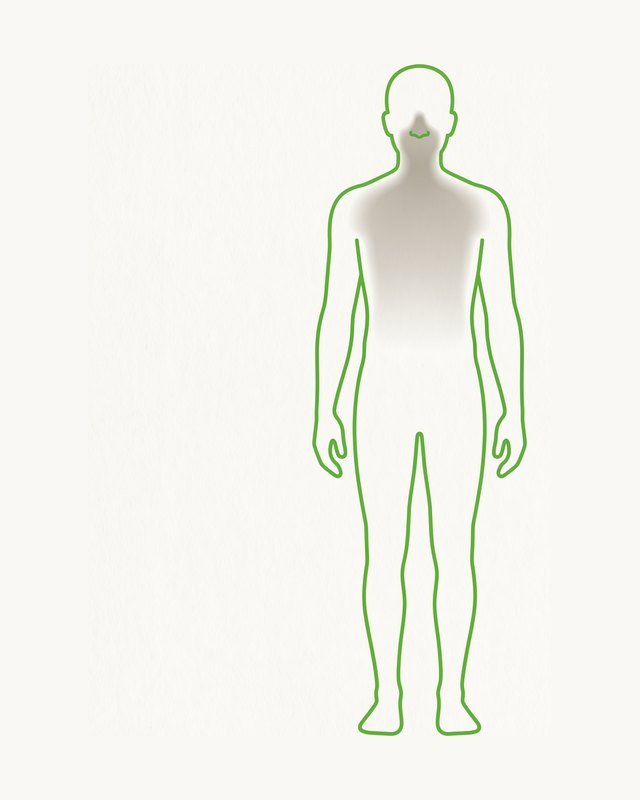
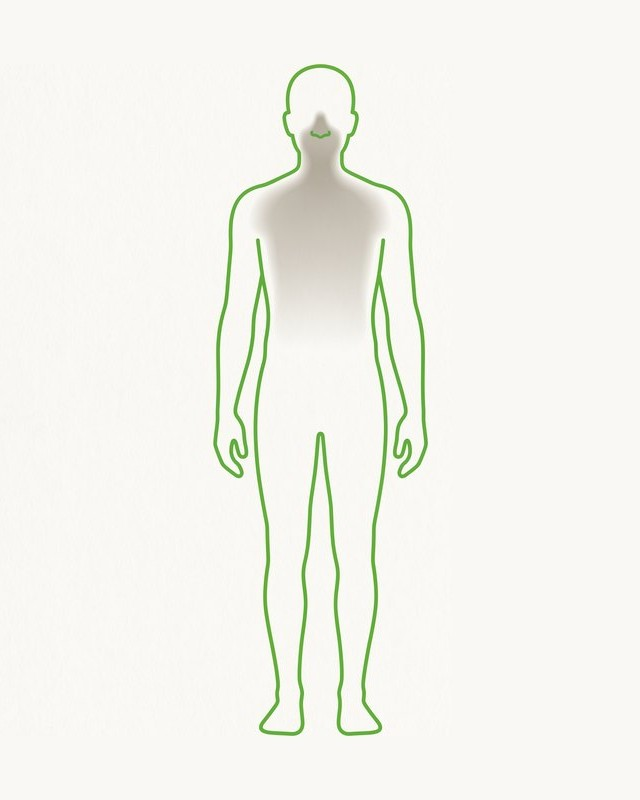
Quiz: figuras de imunidade e tetinha centralizadas no cartao

Changed region(s): [[0.3125, 0.0938, 0.8438, 0.9375], [0.625, 0.0625, 0.6875, 0.0938], [0.4688, 0.0625, 0.5312, 0.0938]]

diff --git a/quiz.html b/quiz.html
@@ -24,9 +24,9 @@
       <div class="qz-opcoes qz-cards">
         <button class="qz-opcao" type="button"><img src="assets/img/lp/qz-estufada.jpg" alt=""><i></i><span>Barriga estufada depois das refeições</span></button>
         <button class="qz-opcao" type="button"><img src="assets/img/lp/qz-intestino.jpg" alt=""><i></i><span>Intestino preso, vou ao banheiro com dificuldade</span></button>
-        <button class="qz-opcao" type="button"><img src="assets/img/lp/qz-tetinha.jpg" alt=""><i></i><span>Peito e barriga inchados, a famosa tetinha</span></button>
+        <button class="qz-opcao" type="button"><img src="assets/img/lp/qz-tetinha.jpg?v=2" alt=""><i></i><span>Peito e barriga inchados, a famosa tetinha</span></button>
         <button class="qz-opcao" type="button"><img src="assets/img/lp/qz-cansaco.jpg" alt=""><i></i><span>Cansaço e sono depois do almoço</span></button>
-        <button class="qz-opcao" type="button"><img src="assets/img/lp/qz-imunidade.jpg" alt=""><i></i><span>Resfriados frequentes, imunidade baixa</span></button>
+        <button class="qz-opcao" type="button"><img src="assets/img/lp/qz-imunidade.jpg?v=2" alt=""><i></i><span>Resfriados frequentes, imunidade baixa</span></button>
         <button class="qz-opcao" type="button"><img src="assets/img/lp/qz-verde.jpg" alt=""><i></i><span>Nada disso, quero só praticidade</span></button>
       </div>
       <div class="qz-pe"><span></span><button class="btn btn-escuro" data-prox disabled>Continuar</button></div>
